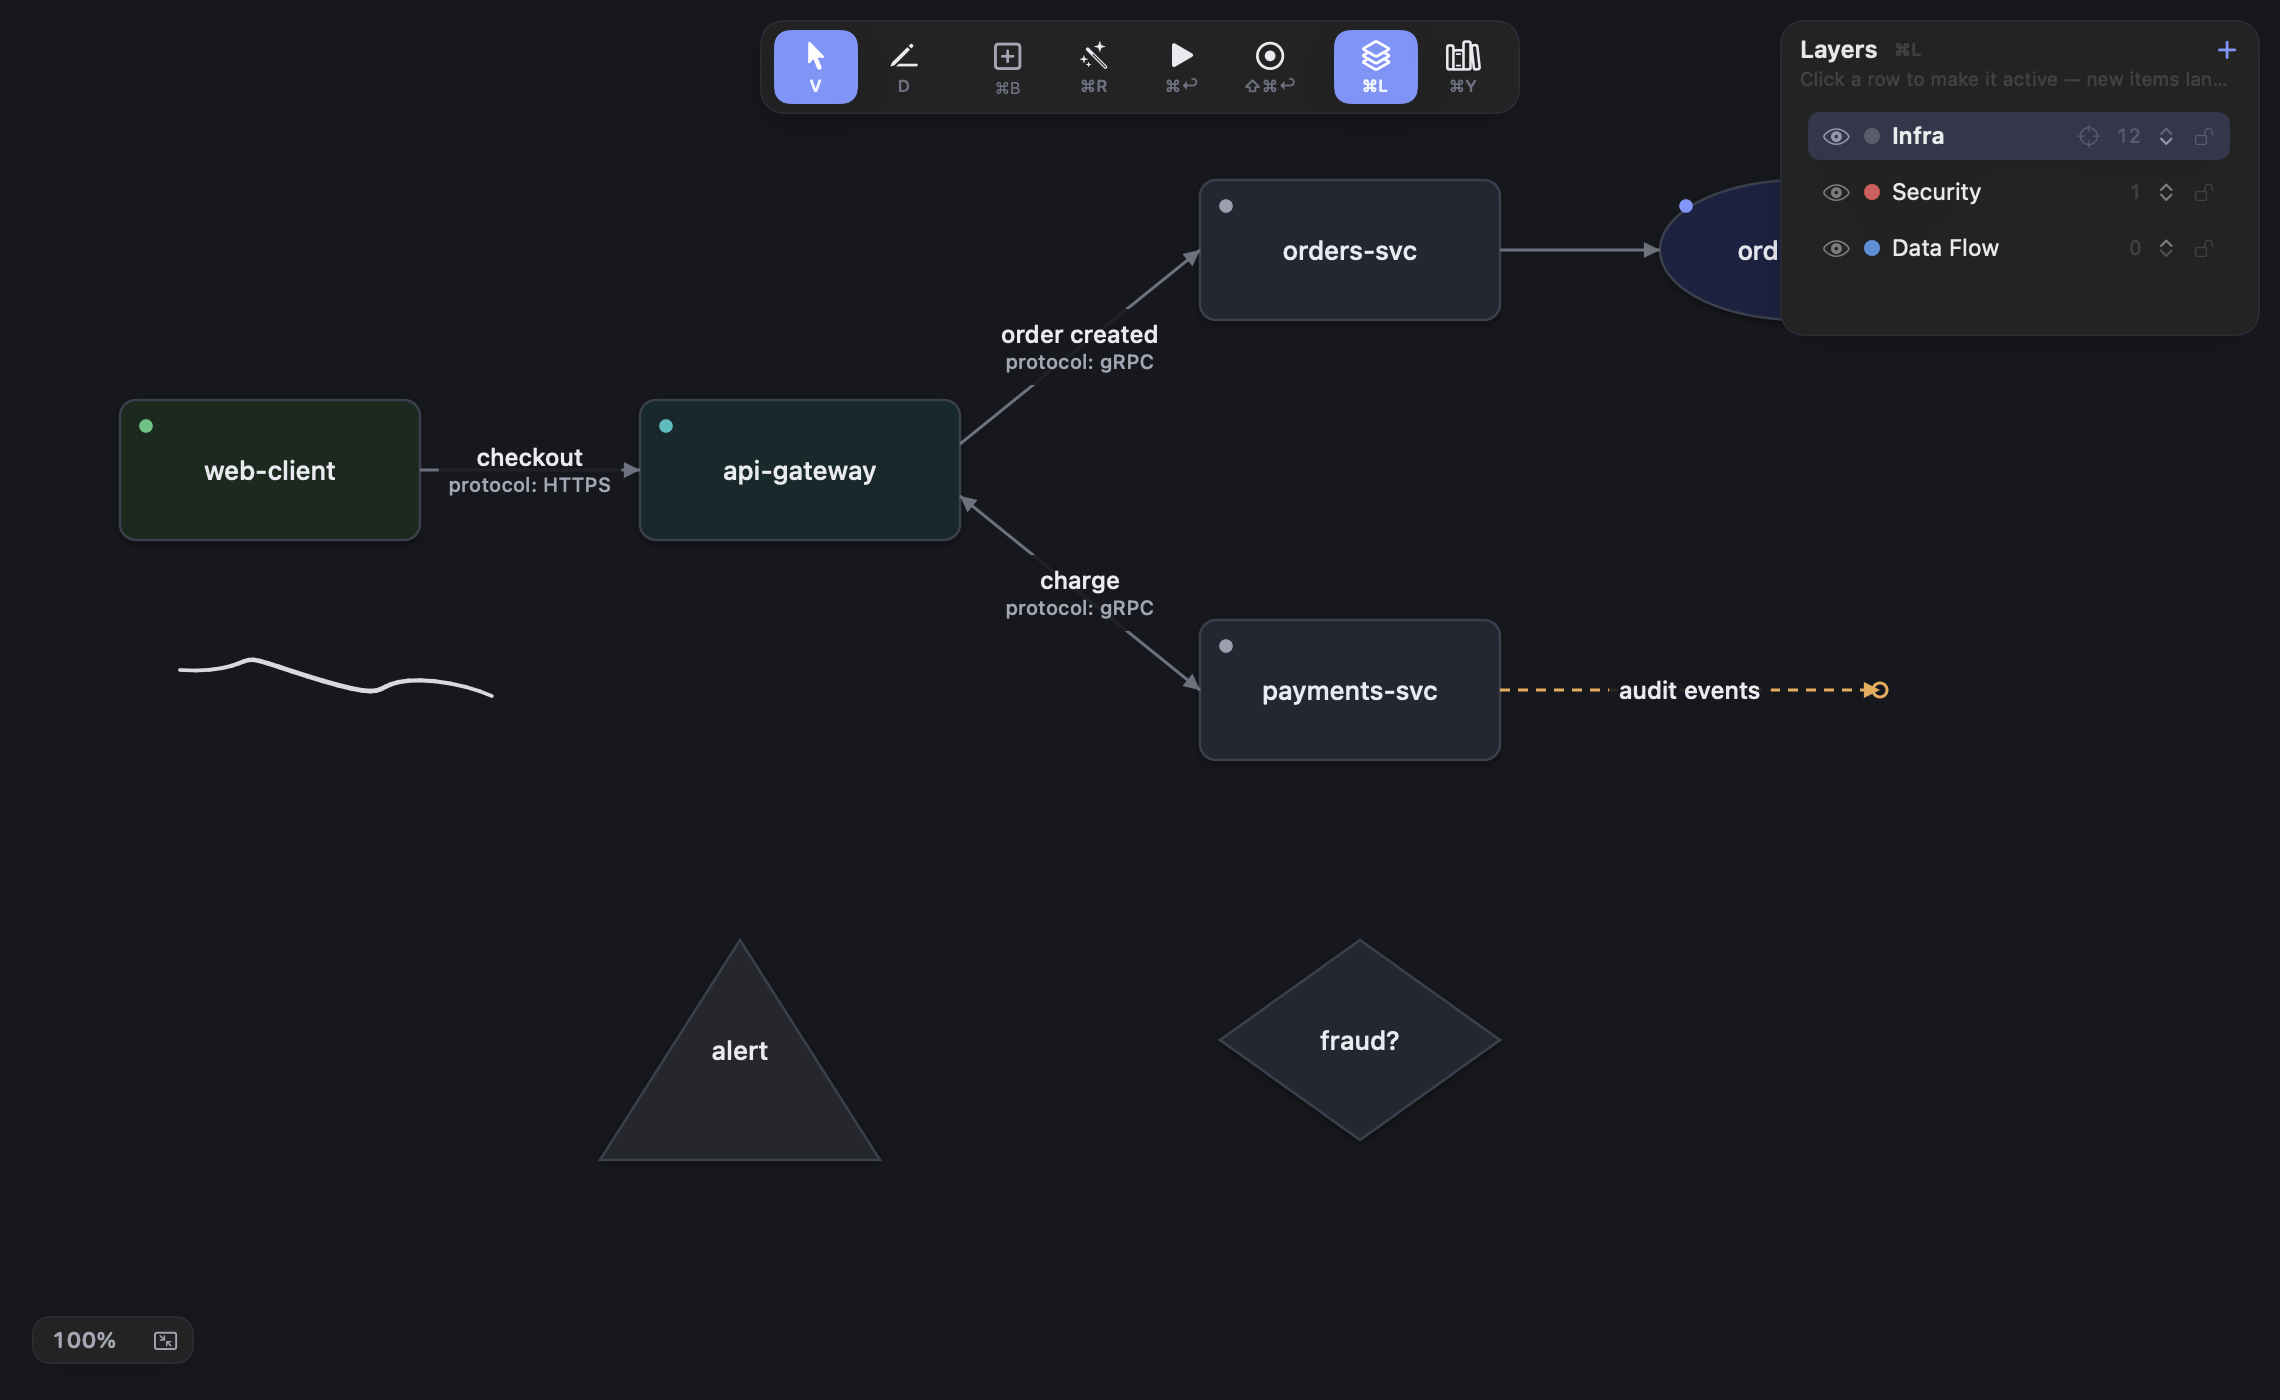
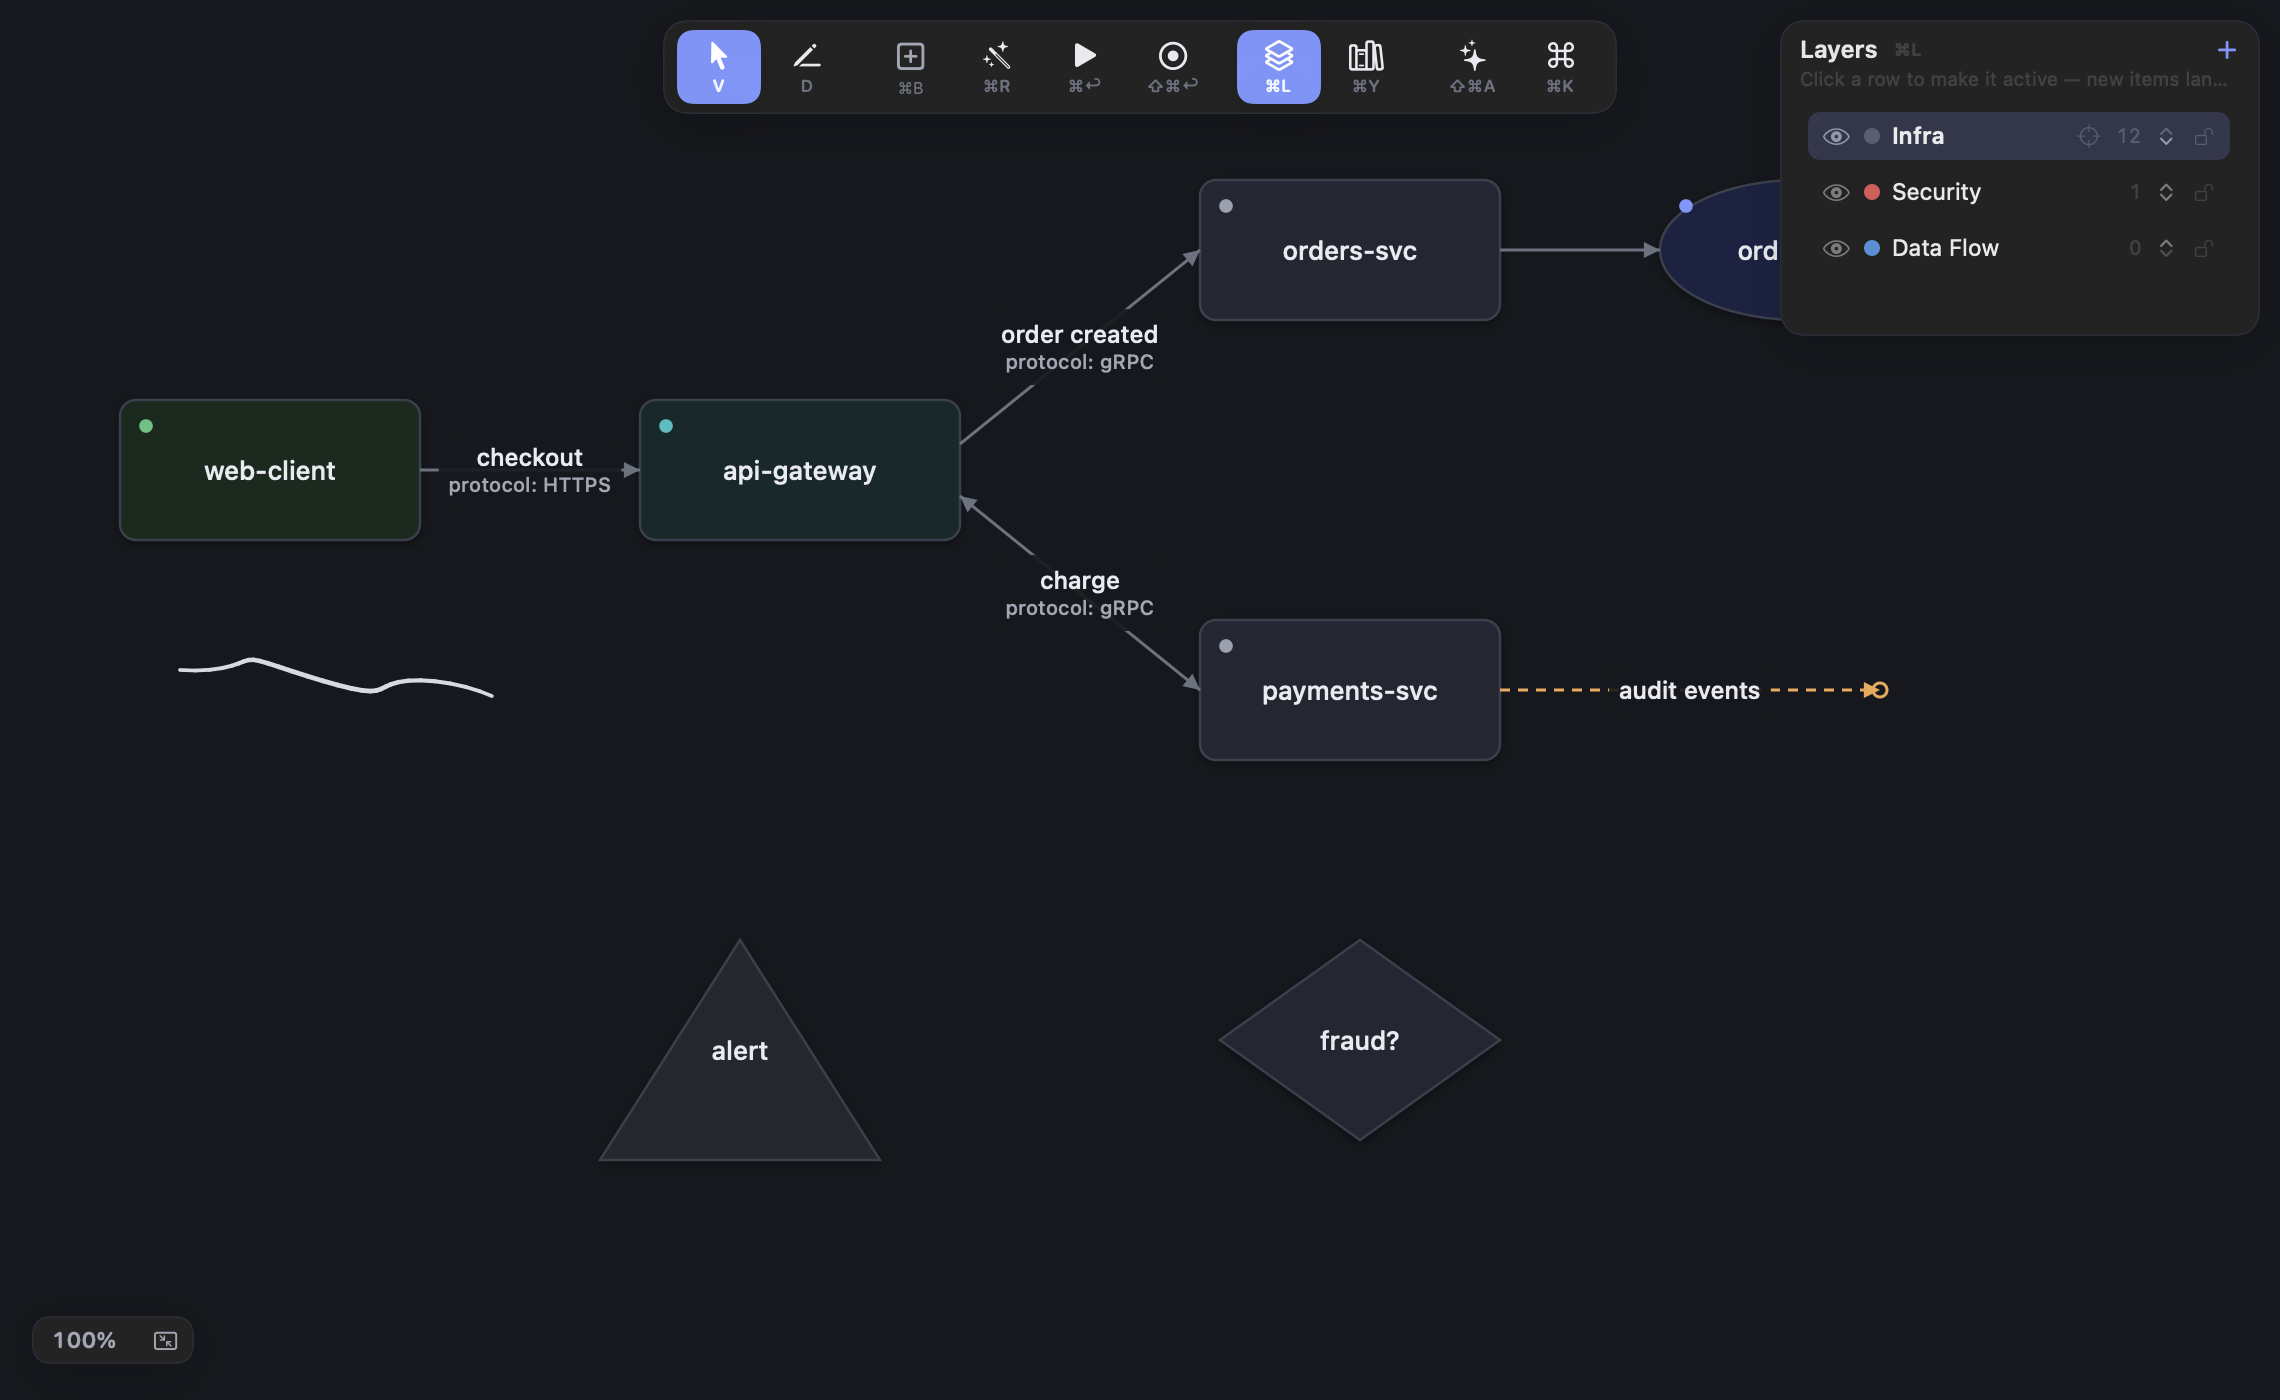
Toolbar: Assistant + Command Palette buttons; clearer Structurize help
The AI assistant (Shift-Cmd-A, highlights while open) and the fuzzy
command palette (Cmd-K) join the top toolbar after Library. Structurize
help copy now explains its actual role with live conversion on: it
converts what live recognition left as ink. README hero updated.

Changed region(s): [[0.436, 0.0, 0.6539, 0.0921], [0.2803, 0.0, 0.4048, 0.0921]]

diff --git a/DesignerKit/Sources/Designer/CanvasToolbar.swift b/DesignerKit/Sources/Designer/CanvasToolbar.swift
@@ -34,6 +34,7 @@ final class ToolbarState: ObservableObject {
     @Published var libraryPanelVisible = false
     @Published var simulating = false
     @Published var recordingFlow = false
+    @Published var chatVisible = false
 }
 
 struct CanvasToolbar: View {
@@ -46,6 +47,8 @@ struct CanvasToolbar: View {
     let onLibrary: () -> Void
     let onSimulate: () -> Void
     let onRecordFlow: () -> Void
+    let onAssistant: () -> Void
+    let onCommandPalette: () -> Void
     let onAddTypedBlock: (BlockPaletteEntry) -> Void
 
     var body: some View {
@@ -84,7 +87,7 @@ struct CanvasToolbar: View {
             .help("Add Block (⌘B) — click for a plain block, or open the menu for a typed one")
             toolButton(
                 icon: "wand.and.stars", hint: "⌘R", label: "Structurize",
-                help: "Structurize (⌘R) — turn selected freehand sketches into clean blocks & connectors",
+                help: "Structurize (⌘R) — convert sketches live recognition left as ink (scribbles, unfinished shapes); with live conversion off, converts everything",
                 isActive: false, action: onStructurize
             )
             toolButton(
@@ -111,6 +114,17 @@ struct CanvasToolbar: View {
                 icon: "books.vertical", hint: "⌘Y", label: "Library",
                 help: "Library (⌘Y) — save & reuse patterns; ⌥⌘S saves the selection",
                 isActive: state.libraryPanelVisible, action: onLibrary
+            )
+            Divider().frame(height: 22).padding(.horizontal, 3)
+            toolButton(
+                icon: "sparkles", hint: "⇧⌘A", label: "Assistant",
+                help: "Assistant (⇧⌘A) — chat with an AI that reads the board and proposes edits you review",
+                isActive: state.chatVisible, action: onAssistant
+            )
+            toolButton(
+                icon: "command", hint: "⌘K", label: "Commands",
+                help: "Command Palette (⌘K) — fuzzy-search every command",
+                isActive: false, action: onCommandPalette
             )
         }
         .padding(.horizontal, 7)

diff --git a/DesignerKit/Sources/Designer/CanvasViewController.swift b/DesignerKit/Sources/Designer/CanvasViewController.swift
@@ -136,6 +136,7 @@ final class CanvasViewController: NSViewController, CanvasViewDelegate {
     @objc func toggleChatPanel(_ sender: Any?) {
         chatModel.visible.toggle()
         chatPanelHost?.isHidden = !chatModel.visible
+        toolbarState.chatVisible = chatModel.visible
         if chatModel.visible {
             refreshChatSetupState()
             // Warm up the local MCP server so the first message is fast.
@@ -1208,6 +1209,12 @@ final class CanvasViewController: NSViewController, CanvasViewDelegate {
                     self.recordFlow(nil)
                 }
                 self.view.window?.makeFirstResponder(self.canvasView)
+            },
+            onAssistant: { [weak self] in
+                self?.toggleChatPanel(nil)
+            },
+            onCommandPalette: { [weak self] in
+                self?.toggleCommandPalette(nil)
             },
             onAddTypedBlock: { [weak self] entry in
                 // No focus hand-back: addBlock opens the label editor.

diff --git a/README.md b/README.md
@@ -110,7 +110,7 @@ one undo step, with an automatic version snapshot first.
 | `V` / `D` | Select / Draw tool |
 | double-click | Create a block (⌘B at viewport center) |
 | drag from a block's border | Connect to another block |
-| `⌘R` | Structurize selected sketches |
+| `⌘R` | Convert remaining sketches (live conversion handles most as you draw) |
 | `⌘↩` / `⇧⌘↩` | Simulate traffic / Record a flow |
 | `⌘J` `⌘L` `⌘Y` `⌥⌘I` | Flows / Layers / Library / Inspector |
 | `⌃⌘S` / `⇧⌘H` | Save version / Version history |